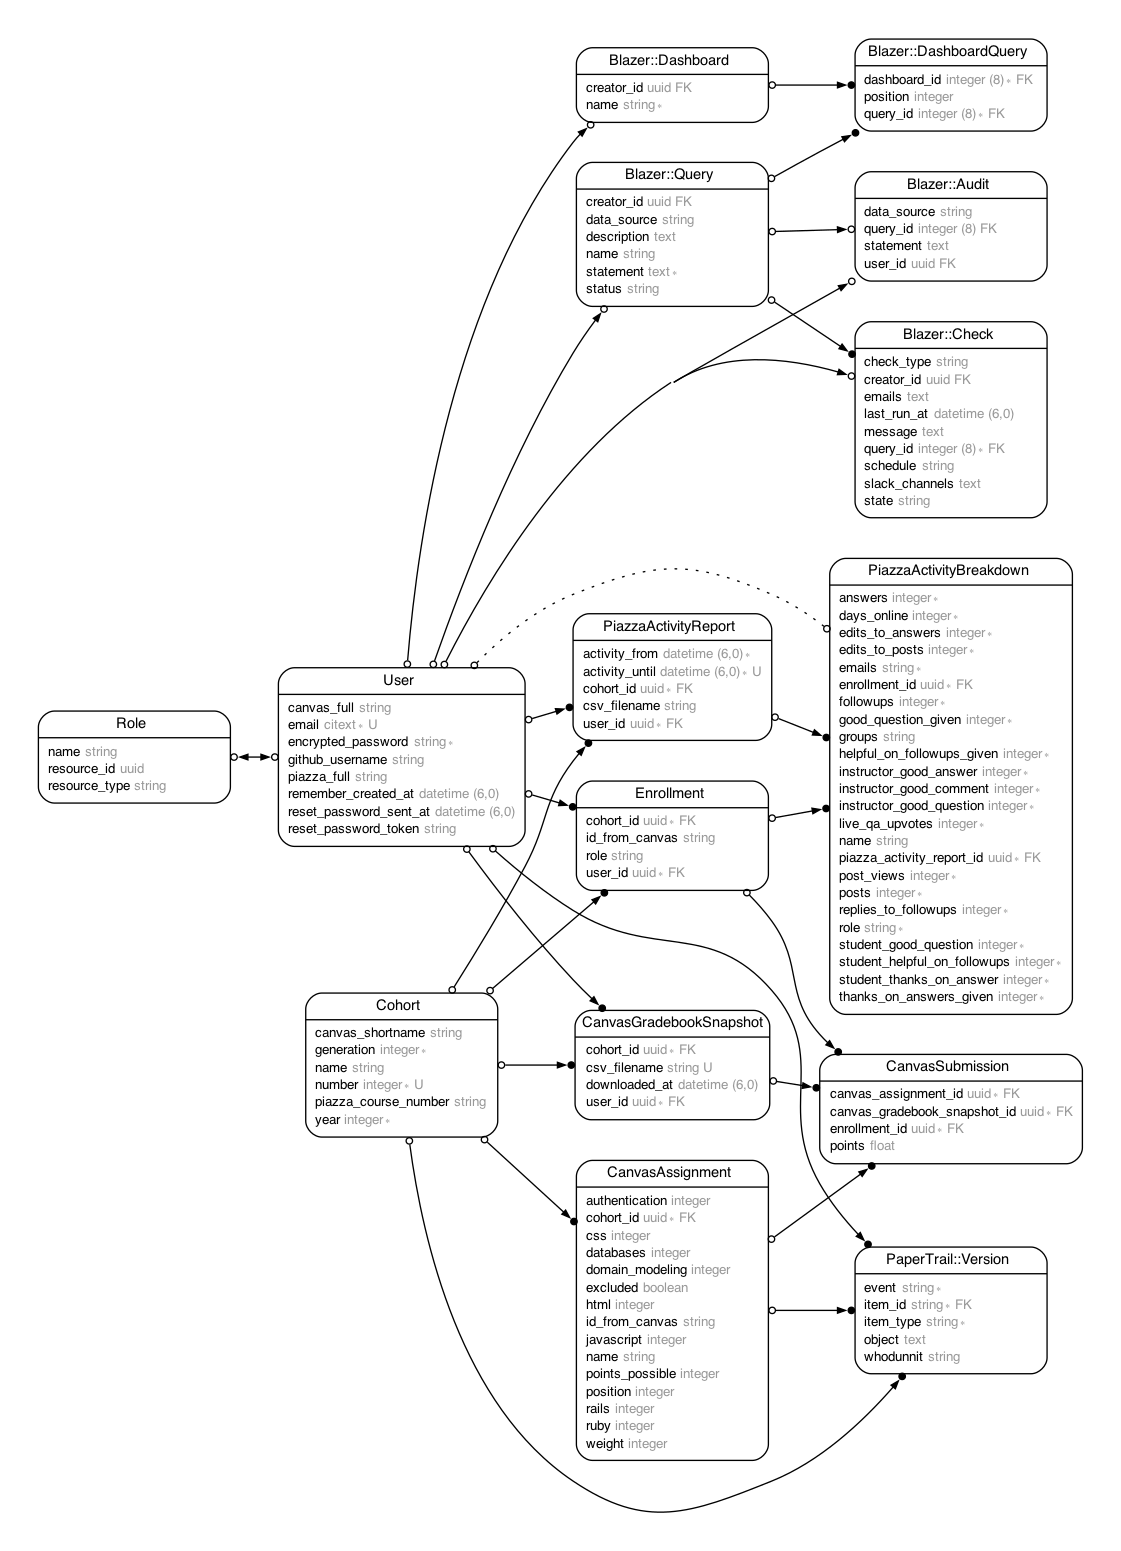
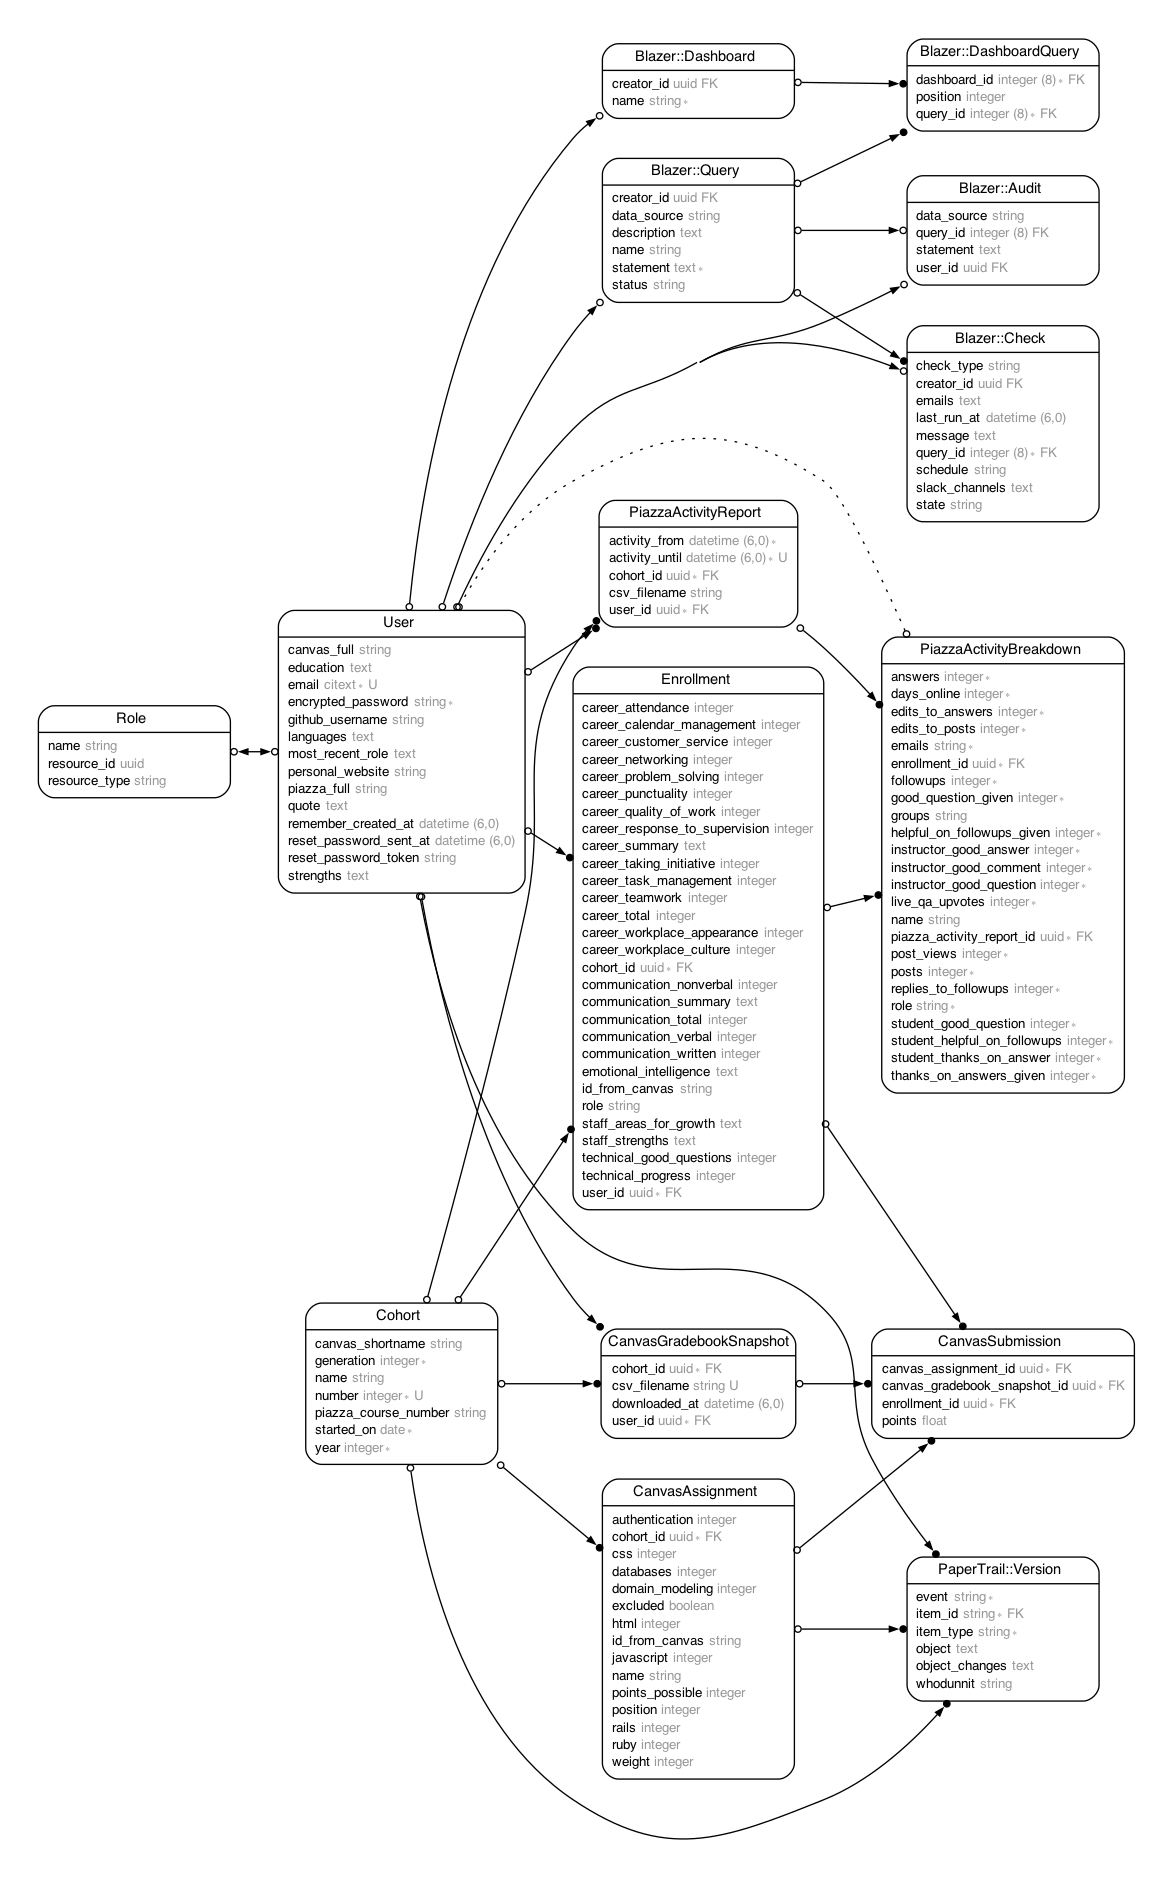
Update paper trail to track changes and set it to track changes on all models except canvas submissions and piazza activity breakdown.

diff --git a/db/schema.rb b/db/schema.rb
@@ -10,7 +10,7 @@
 #
 # It's strongly recommended that you check this file into your version control system.
 
-ActiveRecord::Schema[7.0].define(version: 2023_04_05_050555) do
+ActiveRecord::Schema[7.0].define(version: 2023_04_07_154237) do
   # These are extensions that must be enabled in order to support this database
   enable_extension "citext"
   enable_extension "pgcrypto"
@@ -253,6 +253,7 @@ ActiveRecord::Schema[7.0].define(version: 2023_04_05_050555) do
     t.string "whodunnit"
     t.text "object"
     t.datetime "created_at"
+    t.text "object_changes"
     t.index ["item_type", "item_id"], name: "index_versions_on_item_type_and_item_id"
   end
 

diff --git a/db/migrate/20230407154237_add_object_changes_to_versions.rb b/db/migrate/20230407154237_add_object_changes_to_versions.rb
@@ -1,0 +1,12 @@
+# This migration adds the optional `object_changes` column, in which PaperTrail
+# will store the `changes` diff for each update event. See the readme for
+# details.
+class AddObjectChangesToVersions < ActiveRecord::Migration[7.0]
+  # The largest text column available in all supported RDBMS.
+  # See `create_versions.rb` for details.
+  TEXT_BYTES = 1_073_741_823
+
+  def change
+    add_column :versions, :object_changes, :text, limit: TEXT_BYTES
+  end
+end

diff --git a/app/models/role.rb b/app/models/role.rb
@@ -15,6 +15,8 @@
 #  index_roles_on_name_and_resource_type_and_resource_id  (name,resource_type,resource_id)
 #
 class Role < ApplicationRecord
+  has_paper_trail skip: [:created_at, :updated_at]
+
   has_and_belongs_to_many :users, join_table: :users_roles
 
   belongs_to :resource,

diff --git a/app/models/cohort.rb b/app/models/cohort.rb
@@ -16,7 +16,7 @@
 class Cohort < ApplicationRecord
   include Adminable
 
-  has_paper_trail
+  has_paper_trail skip: [:created_at, :updated_at]
 
   has_many :enrollments, dependent: :destroy
   has_many :piazza_activity_reports, dependent: :destroy

diff --git a/app/models/canvas_gradebook_snapshot.rb b/app/models/canvas_gradebook_snapshot.rb
@@ -23,6 +23,8 @@
 class CanvasGradebookSnapshot < ApplicationRecord
   include Csvable
 
+  has_paper_trail skip: [:created_at, :updated_at]
+
   belongs_to :cohort
   belongs_to :user
   has_many :canvas_submissions, dependent: :destroy

diff --git a/app/models/enrollment.rb b/app/models/enrollment.rb
@@ -48,6 +48,9 @@
 #
 class Enrollment < ApplicationRecord
   include Adminable
+
+  has_paper_trail skip: [:created_at, :updated_at]
+
   belongs_to :user
   belongs_to :cohort
   has_many :piazza_activity_breakdowns, dependent: :destroy

diff --git a/app/models/user.rb b/app/models/user.rb
@@ -29,7 +29,7 @@
 class User < ApplicationRecord
   include Adminable
 
-  has_paper_trail
+  has_paper_trail skip: [:created_at, :updated_at]
 
   rolify
   # Include default devise modules. Others available are:

diff --git a/config/initializers/rails_admin.rb b/config/initializers/rails_admin.rb
@@ -40,7 +40,7 @@ RailsAdmin.config do |config|
     show_in_app
 
     ## With an audit adapter, you can add:
-    # history_index
-    # history_show
+    history_index
+    history_show
   end
 end

diff --git a/app/models/piazza_activity_report.rb b/app/models/piazza_activity_report.rb
@@ -24,6 +24,8 @@
 class PiazzaActivityReport < ApplicationRecord
   attr_accessor :csv_file
 
+  has_paper_trail skip: [:created_at, :updated_at]
+
   belongs_to :cohort
   belongs_to :user
 

diff --git a/app/models/canvas_assignment.rb b/app/models/canvas_assignment.rb
@@ -32,7 +32,7 @@
 class CanvasAssignment < ApplicationRecord
   include Adminable
 
-  has_paper_trail
+  has_paper_trail skip: [:created_at, :updated_at]
 
   belongs_to :cohort
 
